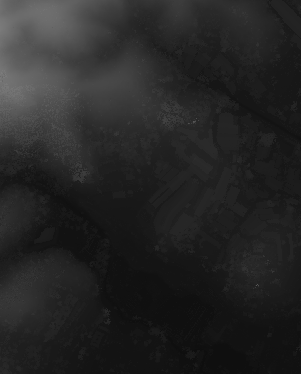
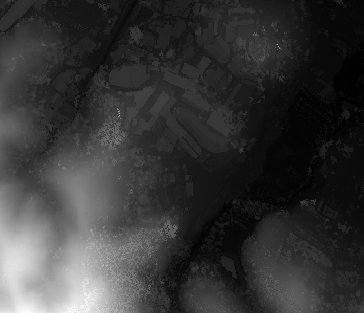
update test map

diff --git a/src/App.js b/src/App.js
@@ -18,8 +18,8 @@ const HK_INITIAL_VIEW_STATE = {
   altitude: 1.5,
   bearing: 0,
   height: 945,
-  latitude: 22.409226206938843,
-  longitude: 114.01401415218648,
+  latitude: 22.31447606849338,
+  longitude: 114.11604080541349,
   zoom: 15
 };
 
@@ -70,7 +70,7 @@ function App() {
     // test dsm
     elevationData:
       'https://raw.githubusercontent.com/laijackylai/hkterrain/main/map/6NW24C(e819n830%2Ce820n830).png',
-    bounds: [114.01401415218648, 22.409226206938843, 114.02130436516617, 22.41465152964679],
+    bounds: [114.11604080541349, 22.31447606849338, 114.12186276237765, 22.321246651033174],
 
     tesselator: tesselator,
     meshMaxError: meshMaxError,
